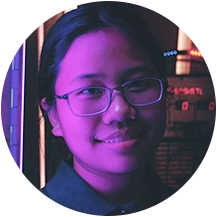
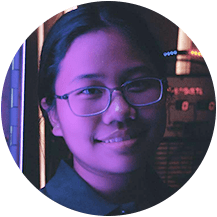
Optimized photos

diff --git a/assets/stylesheets/main.css b/assets/stylesheets/main.css
@@ -157,5 +157,7 @@ p {
   @media (min-width: 768px) {
     #team img {
       margin-right: 14px; } }
+  #team .two.column.row:nth-of-type(2) .column {
+    margin-bottom: 32px; }
 
 /*# sourceMappingURL=main.css.map */

diff --git a/assets/stylesheets/main.scss b/assets/stylesheets/main.scss
@@ -210,4 +210,8 @@ p {
             margin-right: 14px;
         }
     }
+
+    .two.column.row:nth-of-type(2) .column {
+        margin-bottom: 32px;
+    }
 }
